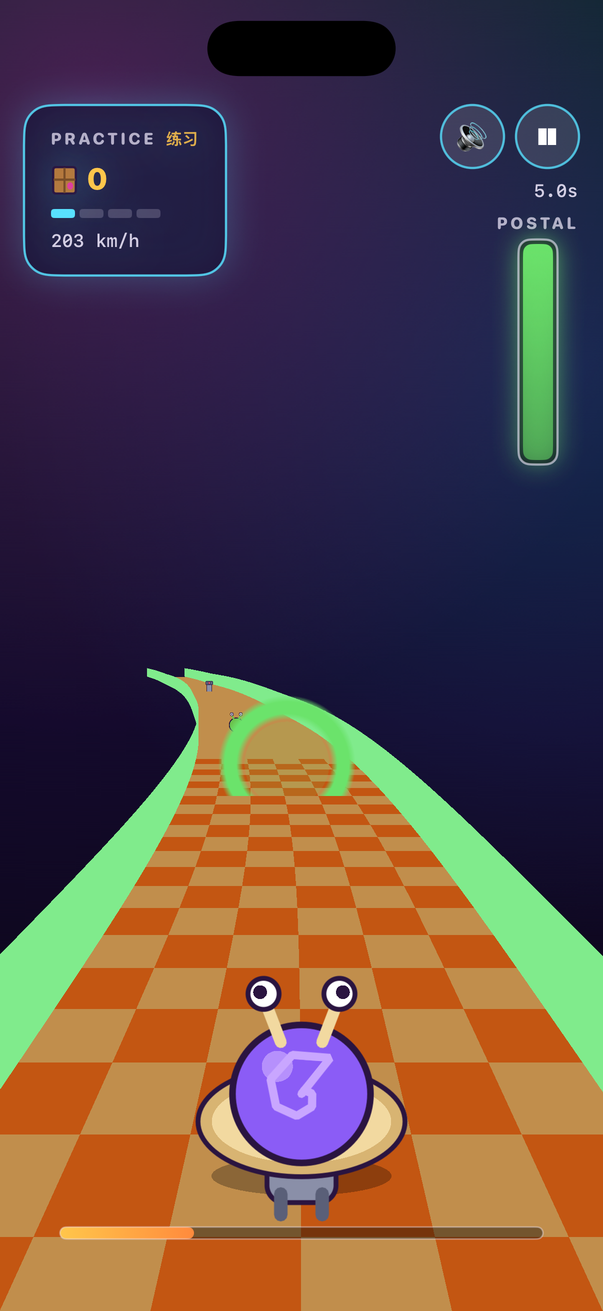
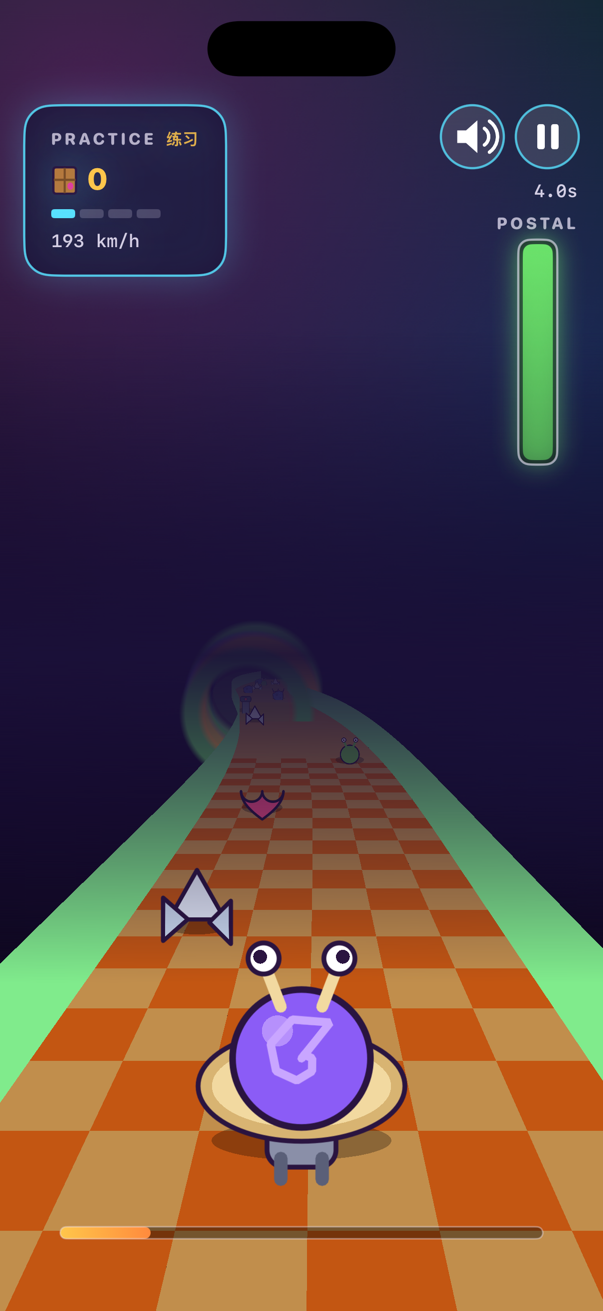
Polish the race: fair damage, denser track, haze and grounded sprites
Give the snail a brief invulnerability window after any hit. Fixed obstacles
(holes, turrets) stay on the road, so without it the snail kept taking damage
every frame it overlapped one and Challenge could end in under a second; now a
passive run survives and the snail blinks while it is protected.

Scatter track entities over the whole course and reserve ring segments so a
meteor or slug no longer spawns inside a boost ring. The tutorial stays free of
hazards entirely, and Challenge/Pro trash density is dialled back from the
previous values.

Add a horizon haze band so the far road and sprites dissolve into the sky, drop
contact shadows under the road objects so they read as sitting on the track,
lift the snail clear of the home indicator, and draw the mute/pause/play glyphs
as shapes instead of emoji so the chrome matches the rest of the kit. Refresh
the menu spacing and hint contrast, and regenerate the screenshots.

diff --git a/SnailMail/Sources/Game/GameModel.swift b/SnailMail/Sources/Game/GameModel.swift
@@ -199,7 +199,7 @@ struct LevelConfig {
                 mode: .challenge,
                 speed: 60,
                 salt: 12,
-                trash: 66,
+                trash: 52,
                 parcels: 0,
                 quota: 0,
                 length: 4000,
@@ -214,7 +214,7 @@ struct LevelConfig {
                 mode: .proChallenge,
                 speed: 74,
                 salt: 22,
-                trash: 96,
+                trash: 70,
                 parcels: 0,
                 quota: 0,
                 length: 6000,
@@ -337,36 +337,53 @@ enum TrackBuilder {
 
     private static func scatterEntities(_ segments: inout [RoadSegment], config: LevelConfig, rng: inout SystemRandomNumberGenerator) {
         guard segments.count > 60 else { return }
-        let usable = Array(segments[40..<(segments.count - 40)])
+        let usable = Array(segments[20..<(segments.count - 30)])
 
-        func place(_ kind: EntityKind, count: Int, minGap: Int) {
-            guard count > 0 else { return }
-            var lastIndex = -minGap
-            var placed = 0
-            var attempts = 0
-            while placed < count && attempts < count * 40 {
-                attempts += 1
-                let seg = usable.randomElement(using: &rng)!
-                if seg.index - lastIndex < minGap { continue }
-                let offset = CGFloat.random(in: -0.8...0.8, using: &rng)
-                seg.sprites.append(EntitySpec(kind: kind, offset: offset, depth: CGFloat.random(in: 0...1, using: &rng)))
-                lastIndex = seg.index
-                placed += 1
+        // Walk the course in a randomised order and greedily drop each pickup on
+        // the first free slot that keeps `minGap` segments between neighbours of
+        // the same kind. Shuffling first spreads items over the whole route
+        // instead of drifting toward one end.
+        @discardableResult
+        func place(_ kind: EntityKind, count: Int, minGap: Int,
+                   avoiding blocked: Set<Int> = []) -> [Int] {
+            guard count > 0 else { return [] }
+            var candidates = Array(20..<(segments.count - 30))
+            candidates.shuffle(using: &rng)
+            var chosen: [Int] = []
+            for index in candidates {
+                if chosen.count >= count { break }
+                if blocked.contains(index) { continue }
+                if chosen.allSatisfy({ abs($0 - index) >= minGap }) {
+                    let seg = segments[index]
+                    let offset = CGFloat.random(in: -0.8...0.8, using: &rng)
+                    seg.sprites.append(EntitySpec(kind: kind, offset: offset, depth: CGFloat.random(in: 0...1, using: &rng)))
+                    chosen.append(index)
+                }
             }
+            return chosen
         }
 
         place(.parcel, count: max(1, config.parcels), minGap: 6)
 
         let hazardCount = usable.count / 6
-        place(.salt, count: Int(CGFloat(hazardCount) * config.salt / 100), minGap: 10)
-        place(.asteroid, count: Int(CGFloat(hazardCount) * config.trash / 200), minGap: 8)
-        place(.slug, count: Int(CGFloat(hazardCount) * config.trash / 300), minGap: 12)
+        // Rings are wide and span the whole road, so reserve their segments
+        // first. Hazards are then kept off those segments so a meteor or slug
+        // never spawns inside a boost ring.
+        var ringSegments = Set<Int>()
+        ringSegments.formUnion(place(.ringUpgrade, count: max(1, usable.count / 70), minGap: 30))
+        ringSegments.formUnion(place(.ringExplode, count: max(1, usable.count / 120), minGap: 50, avoiding: ringSegments))
+        ringSegments.formUnion(place(.ringSlow, count: max(1, usable.count / 110), minGap: 50, avoiding: ringSegments))
+
+        // The guided tutorial stays clean: pickups and rings only, so a new
+        // player can learn the controls without dodging anything.
+        if !config.guided {
+            place(.salt, count: Int(CGFloat(hazardCount) * config.salt / 100), minGap: 10, avoiding: ringSegments)
+            place(.asteroid, count: Int(CGFloat(hazardCount) * config.trash / 200), minGap: 8, avoiding: ringSegments)
+            place(.slug, count: Int(CGFloat(hazardCount) * config.trash / 300), minGap: 12, avoiding: ringSegments)
+            place(.turret, count: usable.count / 130, minGap: 60, avoiding: ringSegments)
+            place(.hole, count: usable.count / 150, minGap: 60, avoiding: ringSegments)
+        }
         place(.heart, count: max(1, usable.count / 90), minGap: 40)
-        place(.ringUpgrade, count: max(1, usable.count / 70), minGap: 30)
-        place(.ringExplode, count: max(1, usable.count / 120), minGap: 50)
-        place(.ringSlow, count: max(1, usable.count / 110), minGap: 50)
-        place(.turret, count: usable.count / 130, minGap: 60)
-        place(.hole, count: usable.count / 150, minGap: 60)
     }
 
     // MARK: easing

diff --git a/SnailMail/Sources/UI/Theme.swift b/SnailMail/Sources/UI/Theme.swift
@@ -172,19 +172,73 @@ struct ArcadeButton: View {
     }
 }
 
-/// Small round icon button (pause / play) drawn with a glyph, matching the kit.
+/// The glyphs the round chrome buttons can show. Drawn as shapes rather than
+/// system characters so they read the same weight as the rest of the kit.
+enum RoundIcon {
+    case sound(on: Bool)
+    case pause
+    case play
+}
+
+/// Small round icon button (mute / pause / play) matching the shared chrome.
 struct RoundIconButton: View {
-    let glyph: String
+    let icon: RoundIcon
     let action: () -> Void
 
     var body: some View {
         Button(action: action) {
-            Text(glyph)
-                .font(.system(size: 16, weight: .black))
-                .frame(width: 42, height: 42)
-                .foregroundStyle(.white)
-                .background(Circle().fill(.white.opacity(0.12)))
-                .overlay(Circle().stroke(Palette.cyan.opacity(0.8), lineWidth: 1.5))
+            Canvas { ctx, size in
+                let w = size.width, h = size.height
+                let white = GraphicsContext.Shading.color(.white)
+                switch icon {
+                case .sound(let on):
+                    var body = Path()
+                    body.move(to: CGPoint(x: w * 0.26, y: h * 0.40))
+                    body.addLine(to: CGPoint(x: w * 0.40, y: h * 0.40))
+                    body.addLine(to: CGPoint(x: w * 0.58, y: h * 0.24))
+                    body.addLine(to: CGPoint(x: w * 0.58, y: h * 0.76))
+                    body.addLine(to: CGPoint(x: w * 0.40, y: h * 0.60))
+                    body.addLine(to: CGPoint(x: w * 0.26, y: h * 0.60))
+                    body.closeSubpath()
+                    ctx.fill(body, with: white)
+                    if on {
+                        for r in [0.16, 0.30] as [CGFloat] {
+                            var arc = Path()
+                            arc.addArc(center: CGPoint(x: w * 0.60, y: h * 0.5),
+                                       radius: w * r,
+                                       startAngle: .degrees(-55), endAngle: .degrees(55),
+                                       clockwise: false)
+                            ctx.stroke(arc, with: white,
+                                       style: .init(lineWidth: max(1.5, w * 0.055), lineCap: .round))
+                        }
+                    } else {
+                        var cross = Path()
+                        cross.move(to: CGPoint(x: w * 0.70, y: h * 0.38))
+                        cross.addLine(to: CGPoint(x: w * 0.90, y: h * 0.62))
+                        cross.move(to: CGPoint(x: w * 0.90, y: h * 0.38))
+                        cross.addLine(to: CGPoint(x: w * 0.70, y: h * 0.62))
+                        ctx.stroke(cross, with: white,
+                                   style: .init(lineWidth: max(1.5, w * 0.06), lineCap: .round))
+                    }
+                case .pause:
+                    for x in [0.34, 0.56] as [CGFloat] {
+                        let bar = Path(roundedRect: CGRect(x: w * x, y: h * 0.30,
+                                                           width: w * 0.12, height: h * 0.40),
+                                       cornerRadius: w * 0.04)
+                        ctx.fill(bar, with: white)
+                    }
+                case .play:
+                    var tri = Path()
+                    tri.move(to: CGPoint(x: w * 0.36, y: h * 0.28))
+                    tri.addLine(to: CGPoint(x: w * 0.36, y: h * 0.72))
+                    tri.addLine(to: CGPoint(x: w * 0.72, y: h * 0.50))
+                    tri.closeSubpath()
+                    ctx.fill(tri, with: white)
+                }
+            }
+            .frame(width: 42, height: 42)
+            .background(Circle().fill(.white.opacity(0.12)))
+            .overlay(Circle().stroke(Palette.cyan.opacity(0.8), lineWidth: 1.5))
         }
         .buttonStyle(.plain)
     }

diff --git a/SnailMail/Sources/Game/GameScene.swift b/SnailMail/Sources/Game/GameScene.swift
@@ -53,6 +53,7 @@ final class GameScene: SKScene {
     private let fxLayer = SKNode()
     private var snail = SKNode()
     private var starLayers: [SKNode] = []
+    private var fogNode = SKNode()
 
     private var roadPool: [SKShapeNode] = []      // tan cells
     private var roadPoolB: [SKShapeNode] = []     // orange cells
@@ -173,6 +174,24 @@ final class GameScene: SKScene {
         }
 
         addChild(sky)
+
+        // Distance haze: a soft band centred on the horizon so the far road and
+        // sprites dissolve into the sky instead of ending on a hard edge. It
+        // sits above the track and billboards but below the snail, which stays
+        // crisp in the near field.
+        fogNode.removeFromParent()
+        fogNode = SKNode()
+        fogNode.zPosition = 8
+        let fog = SKSpriteNode(texture: Sprites.gradientTexture(
+            size: CGSize(width: 8, height: size.height * 0.5),
+            colors: [UIColor(hex: "#160A30").withAlphaComponent(0),
+                     UIColor(hex: "#1A1038").withAlphaComponent(0.96),
+                     UIColor(hex: "#160A30").withAlphaComponent(0)],
+            locations: [0, 0.5, 1]))
+        fog.size = CGSize(width: size.width, height: size.height * 0.5)
+        fog.position = CGPoint(x: size.width / 2, y: size.height * 0.5)
+        fogNode.addChild(fog)
+        addChild(fogNode)
     }
 
     private func preparePools() {
@@ -426,7 +445,11 @@ final class GameScene: SKScene {
 
     private func damage(_ amount: Double, seg: RoadSegment) {
         guard config.damageEnabled else { return }
-        guard state.invincible == false else { return }
+        // Brief invulnerability after any hit. Fixed obstacles (holes, turrets)
+        // stay on the road, so without this the snail would keep taking damage
+        // every frame it overlapped one and die in an instant.
+        guard elapsed >= invincibleUntil else { return }
+        invincibleUntil = elapsed + 0.75
         state.postalMeter = max(0, state.postalMeter - amount)
         Sound.shared.play(.hit)
         if state.postalMeter <= 0 {
@@ -524,9 +547,11 @@ final class GameScene: SKScene {
         renderEntities(baseSegment: baseSegment)
 
         // Player.
-        snail.position = CGPoint(x: size.width * 0.5, y: size.height * 0.14)
+        snail.position = CGPoint(x: size.width * 0.5, y: size.height * 0.17)
         snail.zRotation = -playerX * 0.22
         Sprites.setBoost(snail, on: elapsed < boostUntil || currentSpeed > baseTargetSpeed * 1.05)
+        // Blink while the post-hit invulnerability is active.
+        snail.alpha = elapsed < invincibleUntil ? 0.45 + 0.55 * abs(sin(elapsed * 22)) : 1
         let bob = sin(elapsed * 14) * 2
         snail.position.y += bob
         if let shadow = childNode(withName: "snailshadow") {

diff --git a/SnailMail/Sources/Game/Sprites.swift b/SnailMail/Sources/Game/Sprites.swift
@@ -142,6 +142,29 @@ enum Sprites {
     // MARK: - Entities
 
     static func makeEntity(_ kind: EntityKind, fringe: UIColor) -> SKNode {
+        let body = makeEntityBody(kind, fringe: fringe)
+        guard groundKinds.contains(kind) else { return body }
+        // A soft contact shadow so road objects read as sitting on the track
+        // instead of floating. It scales with the sprite, so it stays correct
+        // at every depth.
+        let root = SKNode()
+        let w = entityBaseWidth(kind)
+        let shadow = SKShapeNode(ellipseOf: CGSize(width: w * 0.95, height: w * 0.30))
+        shadow.fillColor = UIColor.black.withAlphaComponent(0.32)
+        shadow.strokeColor = .clear
+        shadow.zPosition = -1
+        shadow.position = CGPoint(x: 0, y: -w * 0.18)
+        root.addChild(shadow)
+        root.addChild(body)
+        return root
+    }
+
+    /// Kinds that sit on the road and therefore want a contact shadow.
+    private static let groundKinds: Set<EntityKind> = [
+        .parcel, .salt, .asteroid, .slug, .turret, .heart
+    ]
+
+    private static func makeEntityBody(_ kind: EntityKind, fringe: UIColor) -> SKNode {
         switch kind {
         case .parcel:      return makeParcel()
         case .salt:        return makeSalt()
@@ -295,14 +318,16 @@ enum Sprites {
     // MARK: - Sky
 
     /// A vertical-gradient texture built with Core Graphics, used as the sky.
-    static func gradientTexture(size: CGSize, colors: [UIColor]) -> SKTexture {
+    static func gradientTexture(size: CGSize, colors: [UIColor],
+                                locations: [CGFloat]? = nil) -> SKTexture {
         let renderer = UIGraphicsImageRenderer(size: size)
         let img = renderer.image { ctx in
             let cg = ctx.cgContext
             let cgColors = colors.map { $0.cgColor } as CFArray
             let space = CGColorSpaceCreateDeviceRGB()
+            let stops = locations ?? [0, 0.55, 1]
             let grad = CGGradient(colorsSpace: space, colors: cgColors,
-                                  locations: [0, 0.55, 1])!
+                                  locations: stops)!
             cg.drawLinearGradient(grad, start: .zero,
                                   end: CGPoint(x: 0, y: size.height), options: [])
         }

diff --git a/SnailMail/Sources/UI/MenuView.swift b/SnailMail/Sources/UI/MenuView.swift
@@ -16,7 +16,7 @@ struct MenuView: View {
                         SnailMascot()
                             .frame(width: 170, height: 130)
                             .shadow(color: Palette.magenta.opacity(0.5), radius: 18, y: 6)
-                            .padding(.top, 24)
+                            .padding(.top, 34)
 
                         VStack(spacing: 2) {
                             Text("SNAIL MAIL")
@@ -53,10 +53,10 @@ struct MenuView: View {
                         .padding(.horizontal, 60)
 
                         Text("Drag to steer · hold to fire · dodge salt & meteors")
-                            .font(.system(size: 12, weight: .medium, design: .rounded))
-                            .foregroundStyle(Palette.ink.opacity(0.5))
+                            .font(.system(size: 13, weight: .medium, design: .rounded))
+                            .foregroundStyle(Palette.ink.opacity(0.72))
                             .multilineTextAlignment(.center)
-                            .padding(.bottom, 24)
+                            .padding(.bottom, 44)
                     }
                     .frame(maxWidth: 420)
                     .frame(maxWidth: .infinity)
@@ -68,7 +68,7 @@ struct MenuView: View {
             VStack {
                 HStack {
                     Spacer()
-                    RoundIconButton(glyph: muted ? "🔇" : "🔊") {
+                    RoundIconButton(icon: .sound(on: !muted)) {
                         muted.toggle()
                         Sound.shared.setMuted(muted)
                     }

diff --git a/SnailMail/Sources/UI/HUDView.swift b/SnailMail/Sources/UI/HUDView.swift
@@ -40,11 +40,11 @@ struct HUDView: View {
 
                 VStack(alignment: .trailing, spacing: 8) {
                     HStack(spacing: 8) {
-                        RoundIconButton(glyph: muted ? "🔇" : "🔊") {
+                        RoundIconButton(icon: .sound(on: !muted)) {
                             muted.toggle()
                             Sound.shared.setMuted(muted)
                         }
-                        RoundIconButton(glyph: state.phase == .paused ? "▶" : "❚❚", action: onPause)
+                        RoundIconButton(icon: state.phase == .paused ? .play : .pause, action: onPause)
                     }
                     Text(String(format: "%.1fs", state.elapsed))
                         .font(.system(size: 12, weight: .semibold, design: .monospaced))
